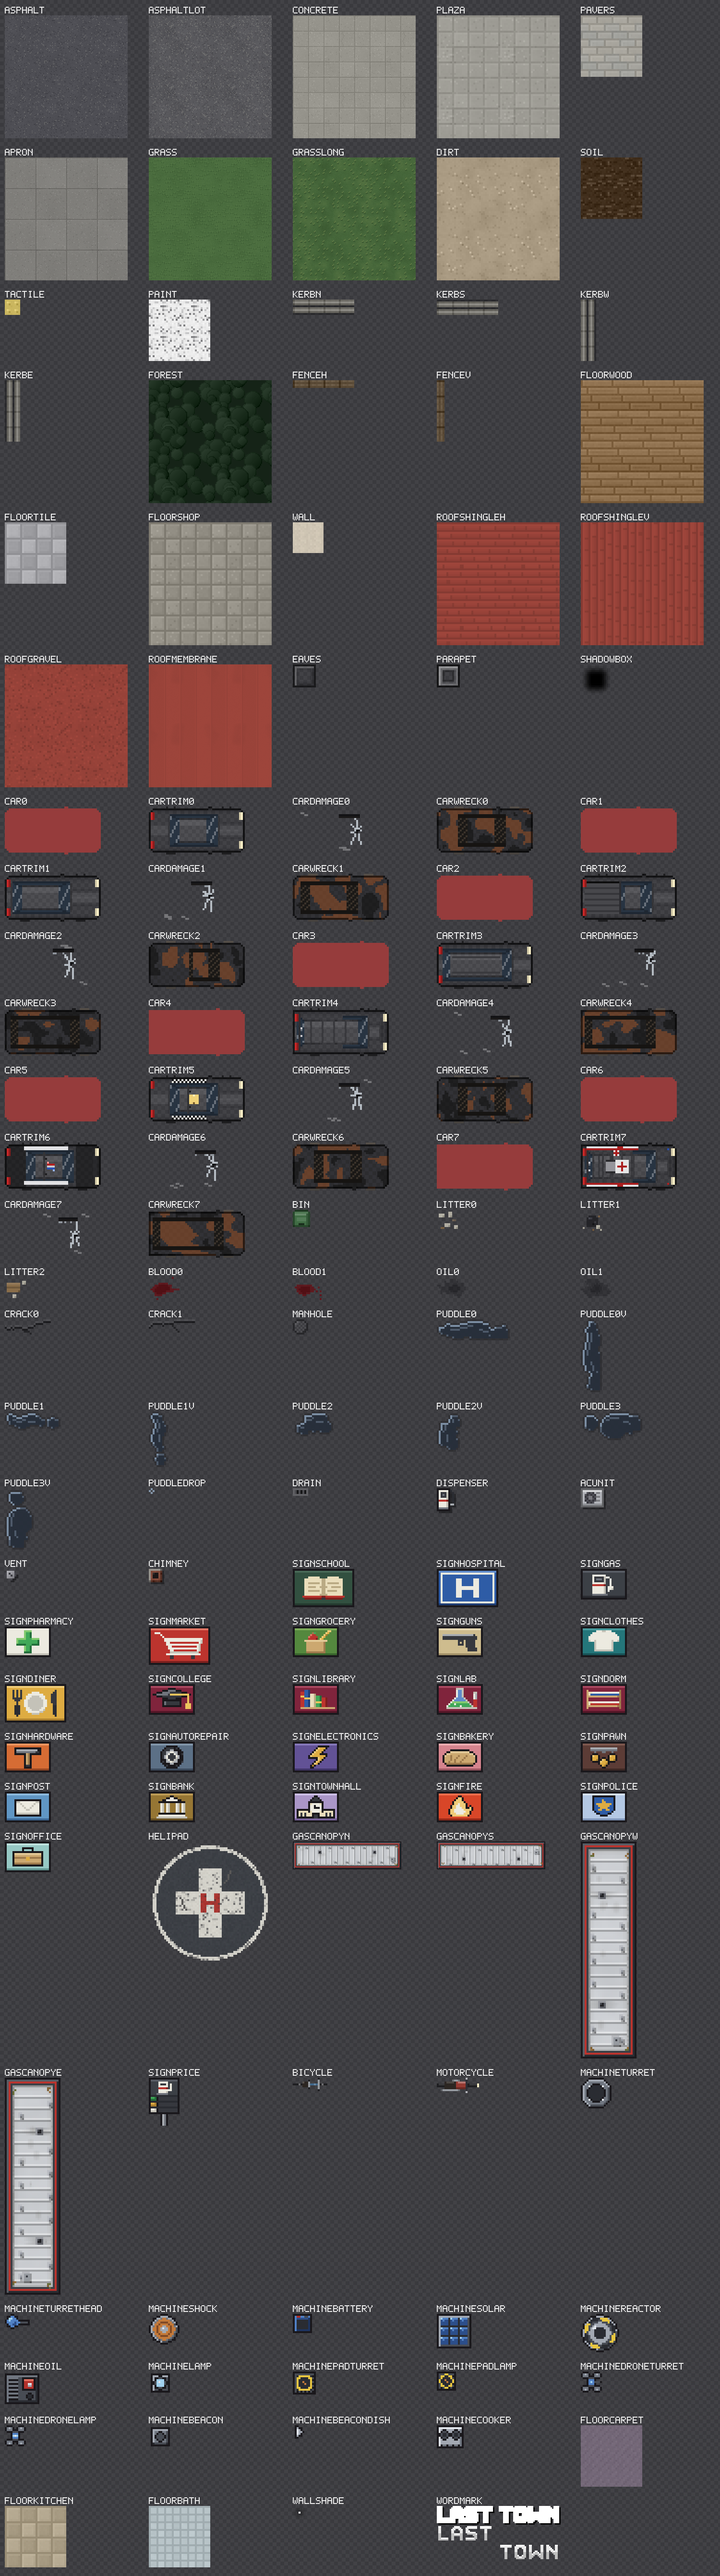
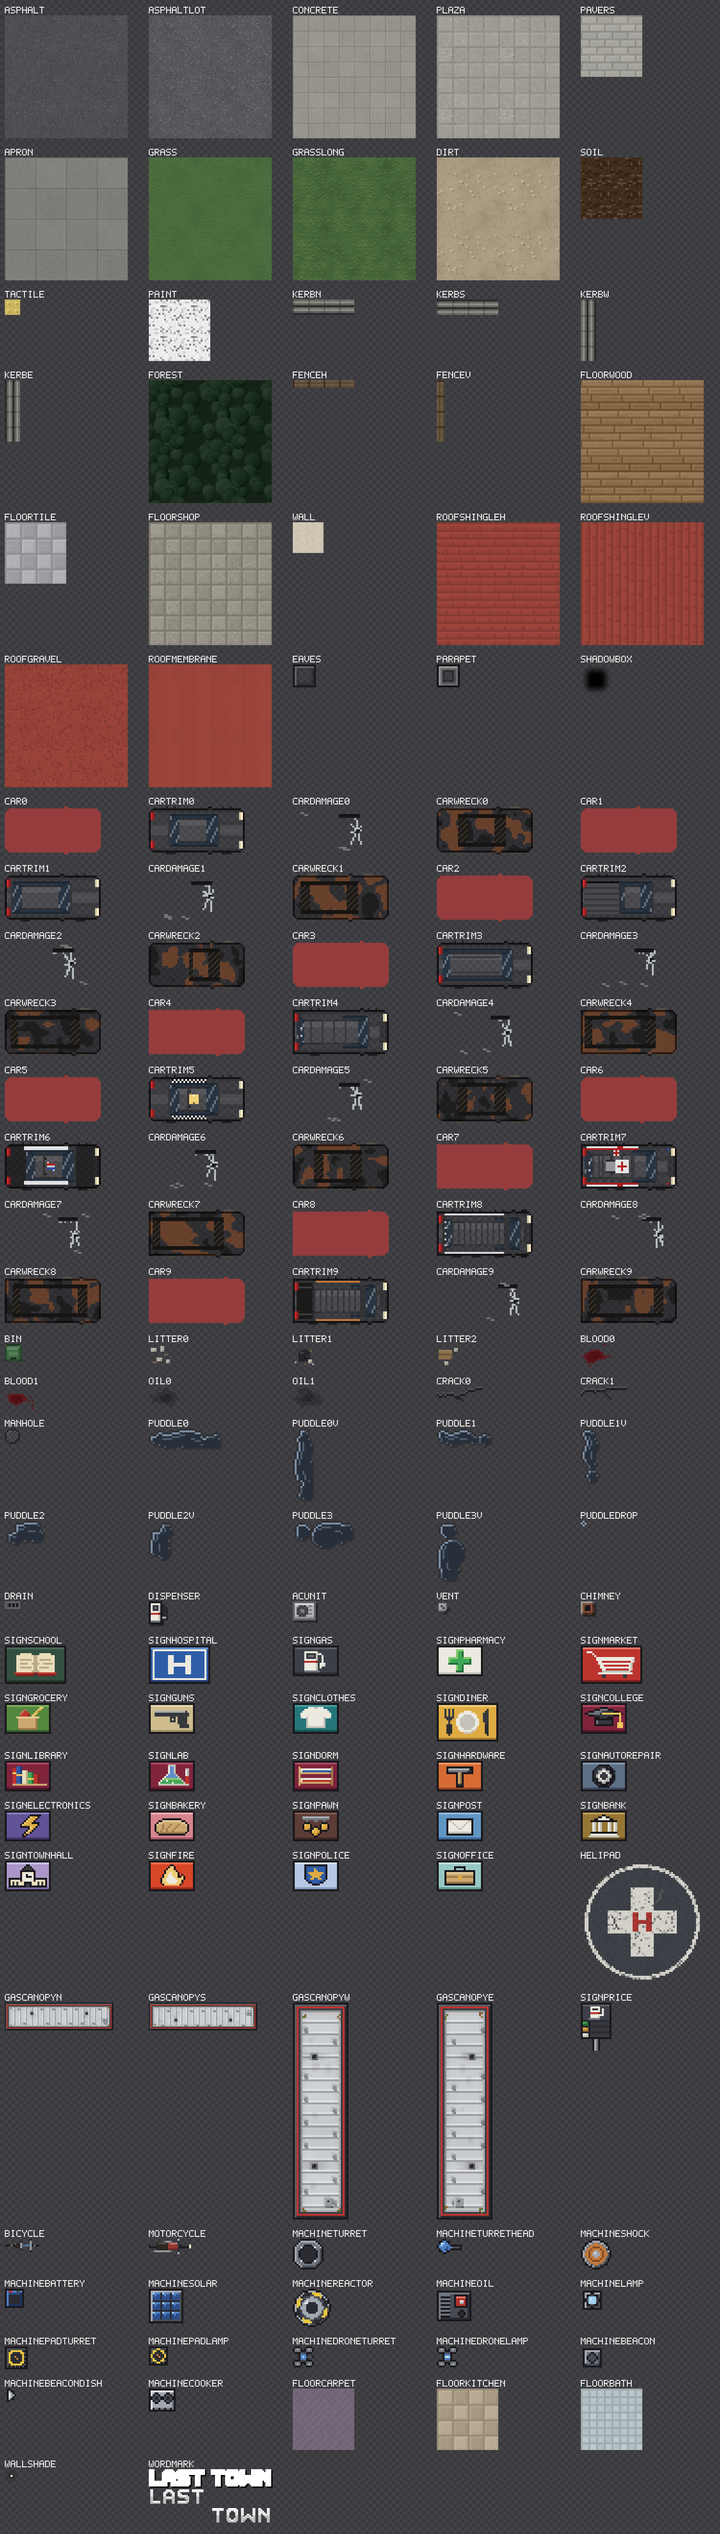
beta: caminhoes baú/lixo (6%) + silhuetas boxy/two-tone finais
Box truck (baú nervurado, porta rollup) e garbage (hopper + faixa
laranja) mesmo 200x100; van/ambulancia traseira quadrada; police
bicolor+push-bar; taxi placa maior. View two-stage preserva spread
0..7 (sem churn de golden). Renders seed3 taxi/seed7 police em
docs/vehicles/img/.

diff --git a/src/client/view/worldView.ts b/src/client/view/worldView.ts
@@ -191,15 +191,15 @@ const OVERGROWN = 0.3;
 const CAR_INTACT = 0;
 const CAR_BROKEN = 1;
 const CAR_BURNT = 2;
-/** car body styles in the art (sedan, hatchback, pickup, SUV, van, taxi, police, ambulance) */
-const CAR_STYLES = 8;
+/** car body styles in the art (sedan, hatchback, pickup, SUV, van, taxi, police, ambulance, box truck, garbage) */
+const CAR_STYLES = 10;
 /**
  * A shrub's crown (VEG-06): lower than a person, so under every body (a survivor beside a shrub stands over its
  * leaves; it never hides a zombie, LEG-03), over the ground and the trunks' layer's shadows; its light one layer up.
  */
 const Z_SHRUB = Z.structure;
 /** the named textures, typed once (template strings would allocate a string per car per frame) */
-const CAR_MASK: Array<WorldArtName> = ["car0", "car1", "car2", "car3", "car4", "car5", "car6", "car7"];
+const CAR_MASK: Array<WorldArtName> = ["car0", "car1", "car2", "car3", "car4", "car5", "car6", "car7", "car8", "car9"];
 const CAR_TRIM: Array<WorldArtName> = [
 	"carTrim0",
 	"carTrim1",
@@ -209,6 +209,8 @@ const CAR_TRIM: Array<WorldArtName> = [
 	"carTrim5",
 	"carTrim6",
 	"carTrim7",
+	"carTrim8",
+	"carTrim9",
 ];
 const CAR_DAMAGE: Array<WorldArtName> = [
 	"carDamage0",
@@ -219,6 +221,8 @@ const CAR_DAMAGE: Array<WorldArtName> = [
 	"carDamage5",
 	"carDamage6",
 	"carDamage7",
+	"carDamage8",
+	"carDamage9",
 ];
 const CAR_WRECK: Array<WorldArtName> = [
 	"carWreck0",
@@ -229,6 +233,8 @@ const CAR_WRECK: Array<WorldArtName> = [
 	"carWreck5",
 	"carWreck6",
 	"carWreck7",
+	"carWreck8",
+	"carWreck9",
 ];
 const LITTER: Array<WorldArtName> = ["litter0", "litter1", "litter2"];
 const BLOOD: Array<WorldArtName> = ["blood0", "blood1"];
@@ -2170,7 +2176,10 @@ export class WorldView {
 	 * the windshield smashed or burnt out, some with dried blood by the door (APO-01).
 	 */
 	private drawCarArt(r: Renderer, cam: Camera, s: Solid): boolean {
-		const style = math.floor(hash01(s.x, s.y, 21) * CAR_STYLES) % CAR_STYLES;
+		// the first eight keep their exact spread (no golden churn); ~6% of cars are box or refuse trucks instead
+		const townCars = CAR_STYLES - 2;
+		const base = math.floor(hash01(s.x, s.y, 21) * townCars) % townCars;
+		const style = hash01(s.x, s.y, 94) < 0.06 ? townCars + (math.floor(hash01(s.x, s.y, 95) * 2) % 2) : base;
 		const mask = artId(CAR_MASK[style]);
 		const trim = artId(CAR_TRIM[style]);
 		if (mask === undefined || trim === undefined) return false;

diff --git a/src/client/view/worldArtAssets.ts b/src/client/view/worldArtAssets.ts
@@ -79,6 +79,14 @@ export type WorldArtName =
 	| "carTrim7"
 	| "carDamage7"
 	| "carWreck7"
+	| "car8"
+	| "carTrim8"
+	| "carDamage8"
+	| "carWreck8"
+	| "car9"
+	| "carTrim9"
+	| "carDamage9"
+	| "carWreck9"
 	| "bin"
 	| "litter0"
 	| "litter1"
@@ -313,6 +321,22 @@ export const WORLD_ART: Record<WorldArtName, WorldArtAsset> = {
 	carDamage7: { id: "", w: 50, h: 25 },
 	/** overlay: ambulance: burnt out */
 	carWreck7: { id: "", w: 50, h: 25 },
+	/** mask: boxtruck: body (tint: paint) */
+	car8: { id: "", w: 50, h: 25 },
+	/** overlay: boxtruck: glass, lights, wheels, outline */
+	carTrim8: { id: "", w: 50, h: 25 },
+	/** overlay: boxtruck: smashed windshield, scratches */
+	carDamage8: { id: "", w: 50, h: 25 },
+	/** overlay: boxtruck: burnt out */
+	carWreck8: { id: "", w: 50, h: 25 },
+	/** mask: garbage: body (tint: paint) */
+	car9: { id: "", w: 50, h: 25 },
+	/** overlay: garbage: glass, lights, wheels, outline */
+	carTrim9: { id: "", w: 50, h: 25 },
+	/** overlay: garbage: smashed windshield, scratches */
+	carDamage9: { id: "", w: 50, h: 25 },
+	/** overlay: garbage: burnt out */
+	carWreck9: { id: "", w: 50, h: 25 },
 	/** sprite: wheelie bin */
 	bin: { id: "rbxassetid://140632839899508", w: 9, h: 9 },
 	/** sprite: spilled litter (flat) */
@@ -592,6 +616,14 @@ export const WORLD_ART_NAMES: Array<WorldArtName> = [
 	"carTrim7",
 	"carDamage7",
 	"carWreck7",
+	"car8",
+	"carTrim8",
+	"carDamage8",
+	"carWreck8",
+	"car9",
+	"carTrim9",
+	"carDamage9",
+	"carWreck9",
 	"bin",
 	"litter0",
 	"litter1",
